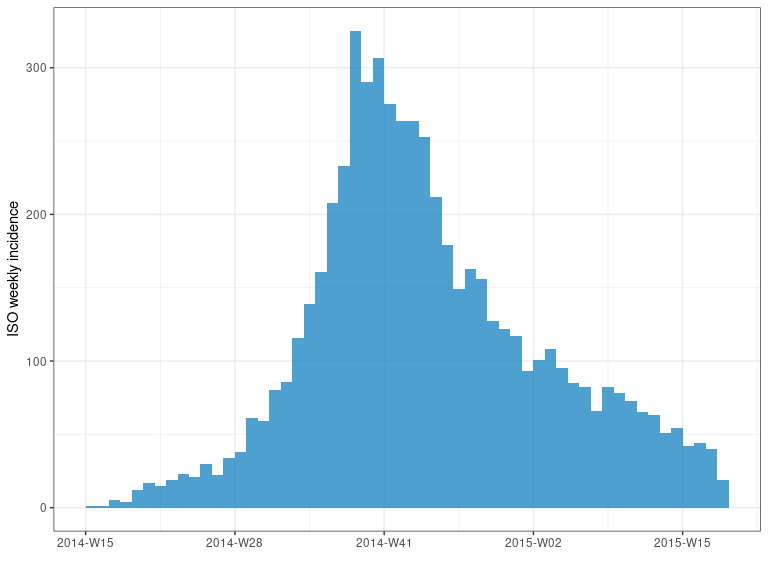
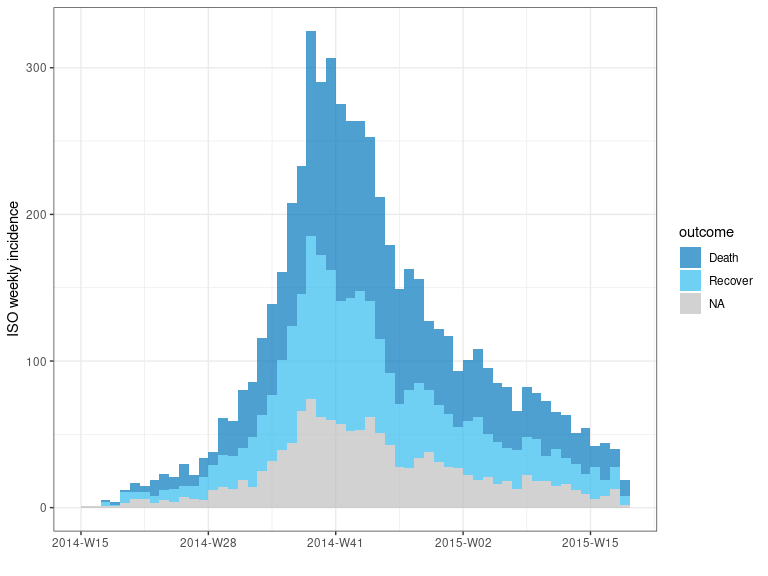
update README for new interface

diff --git a/README.md b/README.md
@@ -329,7 +329,7 @@ summary(i_7_outcome)
 #> 1 Death    2564
 #> 2 Recover  1963
 #> 3 <NA>     1302
-plot(i_7_outcome, stack = TRUE)
+plot(i_7_outcome, fill = outcome)
 ```
 
 ![](figs/i7outcome-1.png)<!-- -->
@@ -361,7 +361,7 @@ i_7_outcome_cum
 #>  9 2014-04-21 2014-W17 2014-W17 Recover     3
 #> 10 2014-04-28 2014-W18 2014-W18 <NA>        4
 #> # … with 158 more rows
-plot(i_7_outcome_cum)
+plot(i_7_outcome_cum, fill = outcome)
 ```
 
 ![](figs/i7outcome_cum-1.png)<!-- -->
